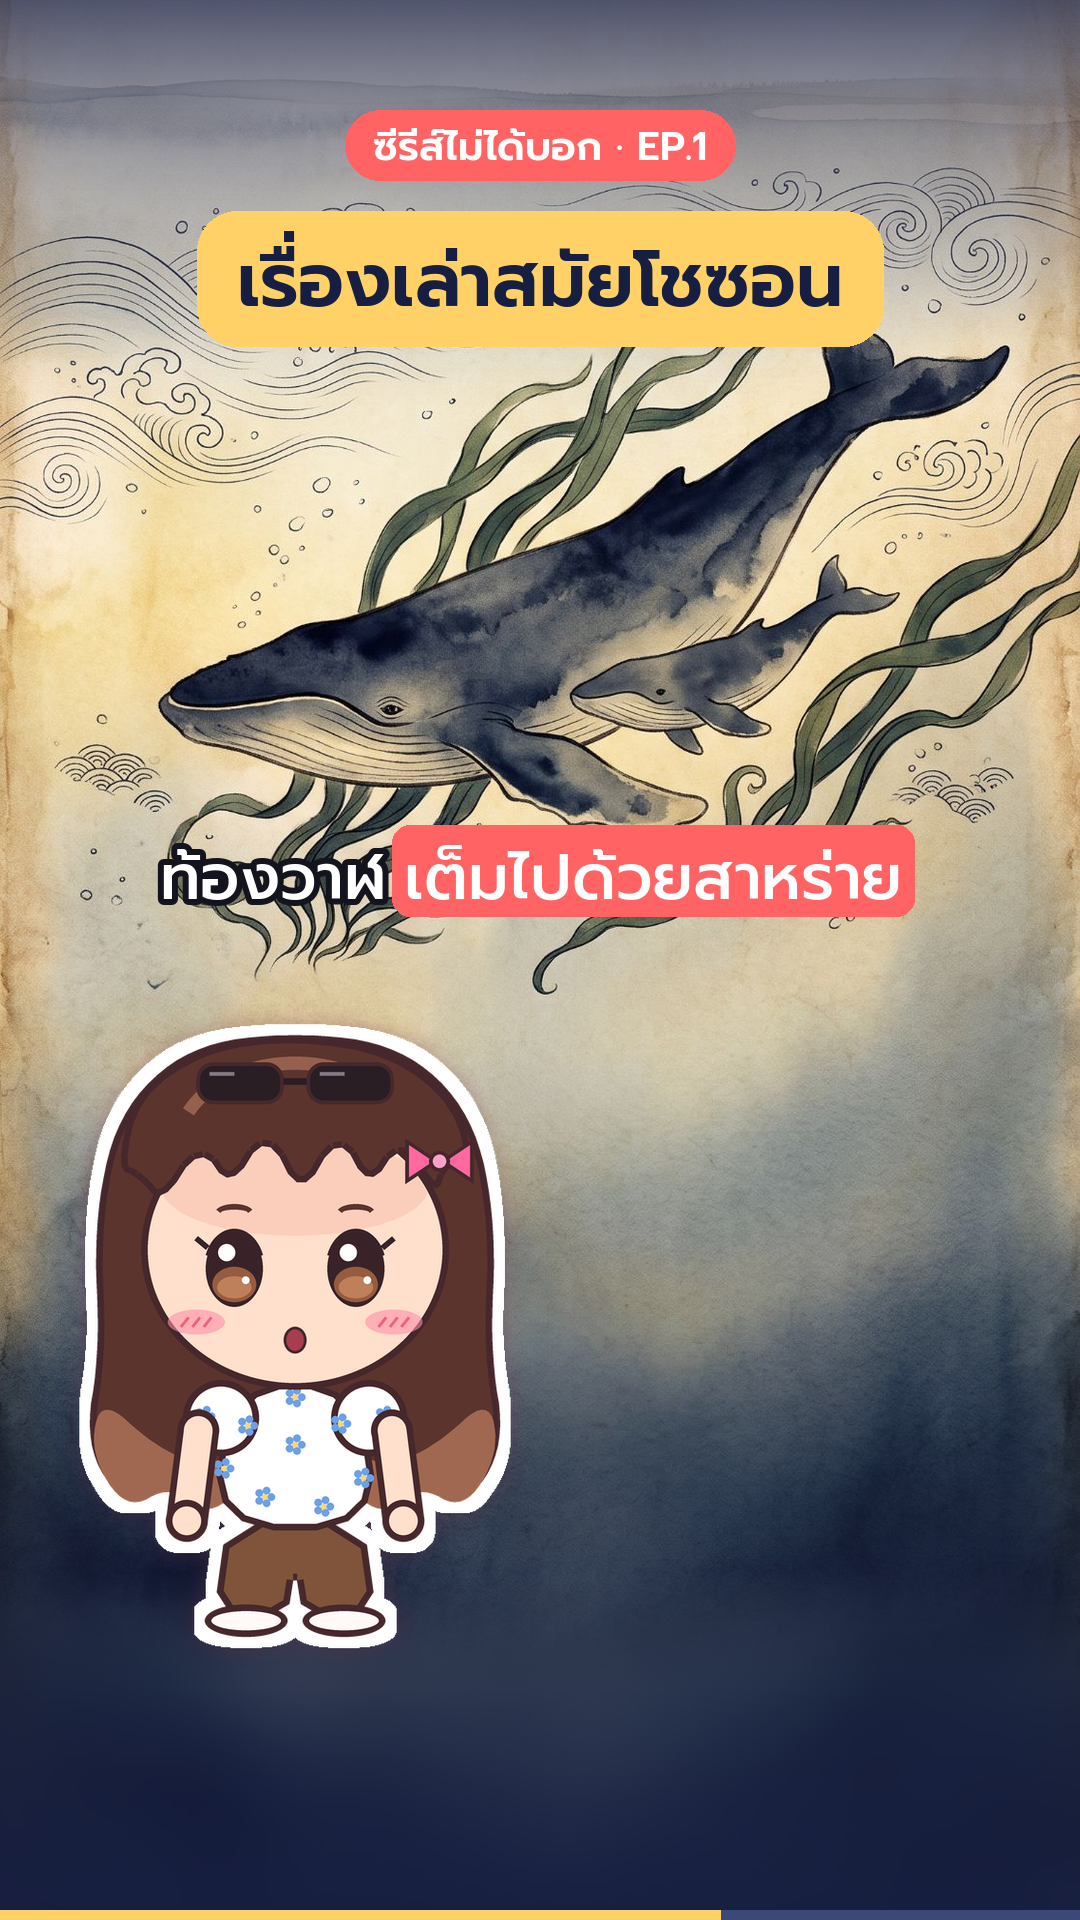
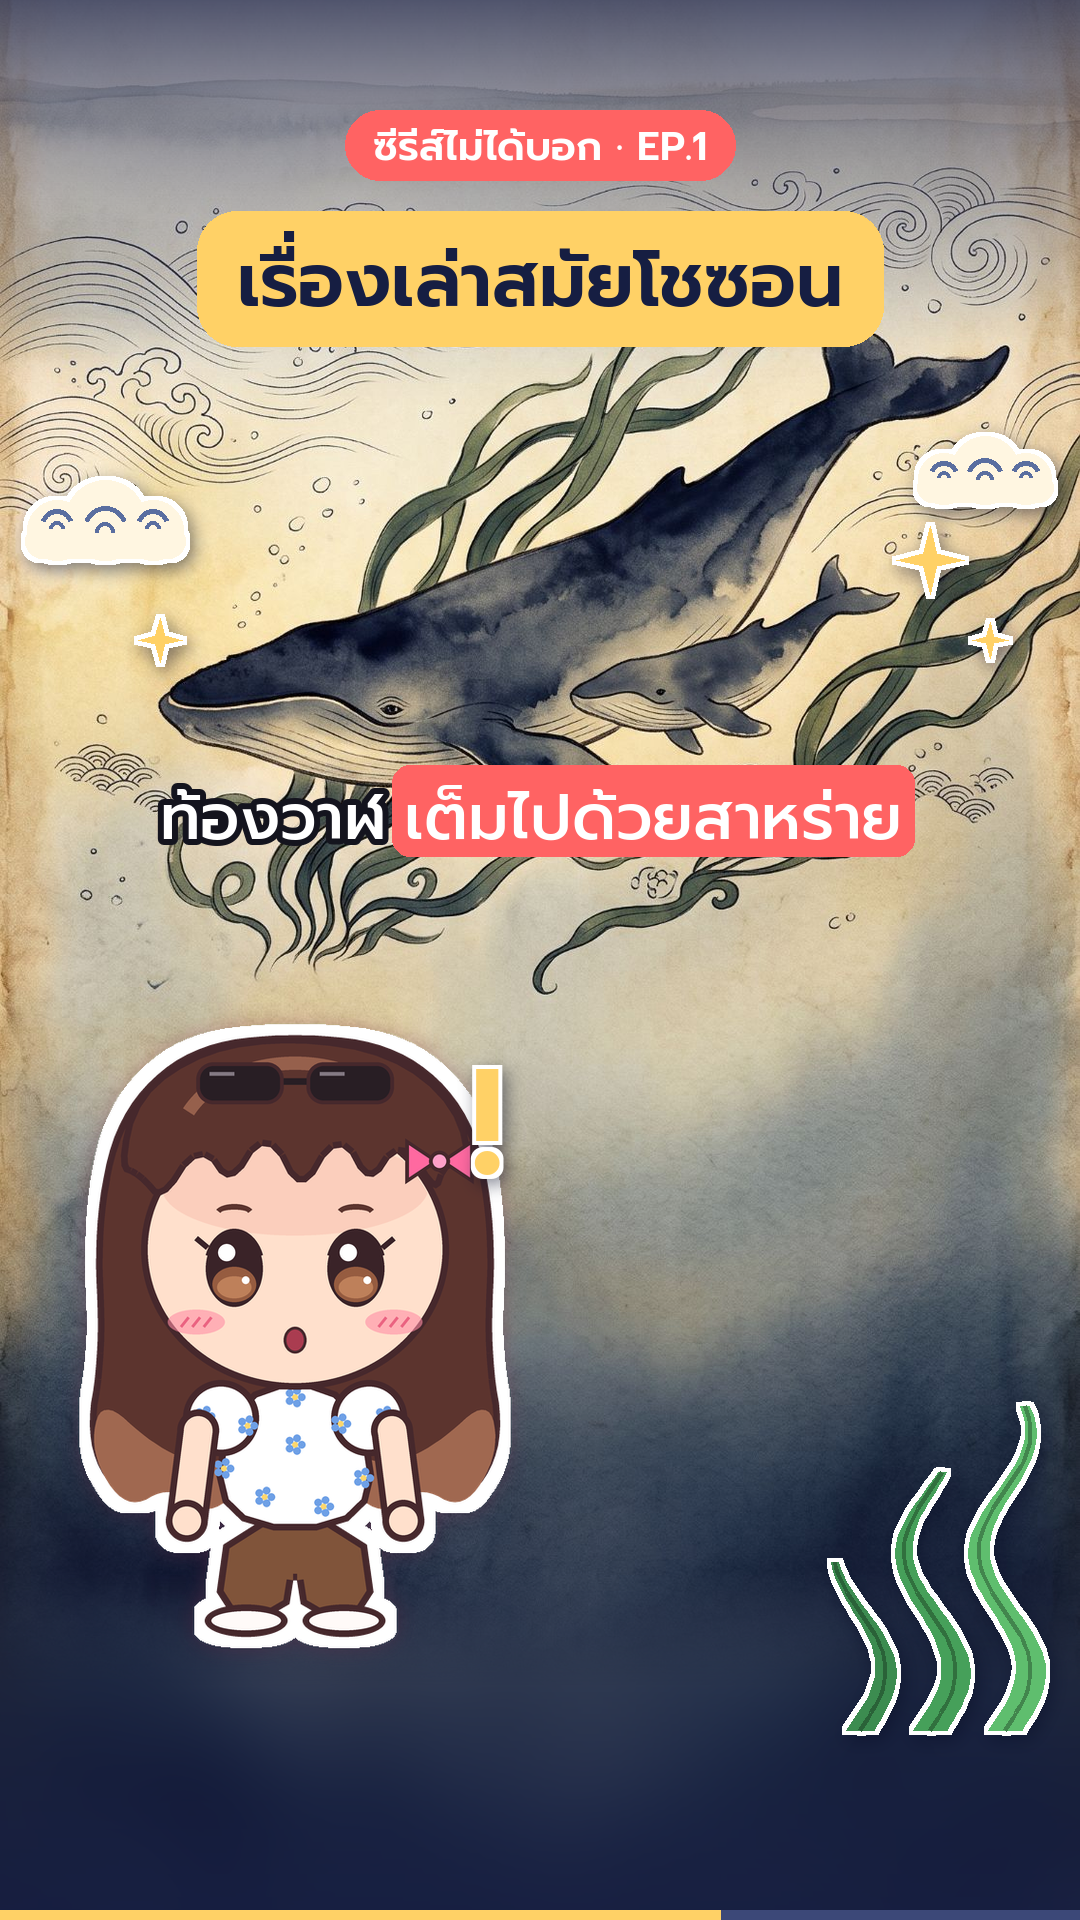
Mock frames: Korean doodle decorations (clouds, sparkles, seaweed, party hat)
Claude-Session: https://claude.ai/code/session_01RZMEmkS7RESx1oE558yDYc

diff --git a/office/weeks/2026-W47/make_mockframes.py b/office/weeks/2026-W47/make_mockframes.py
@@ -76,6 +76,63 @@ def subtitle(d, text, ybot):
             x += w + (18 if h else 0)
         y += lh
 
+
+import math
+CREAMD = (255, 246, 225)
+def _sticker(layer):
+    """white rim + soft shadow so doodles pop on photos"""
+    a = layer.split()[3]
+    rim = Image.new("RGBA", layer.size, (255, 255, 255, 0)); rim.putalpha(a.filter(ImageFilter.MaxFilter(9)))
+    sh = Image.new("RGBA", layer.size, (10, 15, 40, 0)); sh.putalpha(a.filter(ImageFilter.MaxFilter(9)).filter(ImageFilter.GaussianBlur(8)).point(lambda v: v * 0.5))
+    out = Image.new("RGBA", layer.size, (0, 0, 0, 0))
+    out.alpha_composite(sh, (4, 6)); out.alpha_composite(rim); out.alpha_composite(layer)
+    return out
+
+def cloud(d, x, y, r, col):
+    """Korean-style puffy cloud with swirl lines"""
+    for dx, dy, rr in [(-r*1.2, r*0.25, r*0.75), (0, 0, r), (r*1.2, r*0.25, r*0.75)]:
+        d.ellipse([x+dx-rr, y+dy-rr, x+dx+rr, y+dy+rr], fill=col)
+    d.rounded_rectangle([x-r*2, y+r*0.1, x+r*2, y+r*0.95], r*0.42, fill=col)
+    ln = (90, 110, 160)
+    for dx, rr in [(-r*1.2, r*0.42), (0, r*0.55), (r*1.2, r*0.42)]:
+        d.arc([x+dx-rr, y-rr*0.6, x+dx+rr, y+rr*1.4], 200, 340, fill=ln, width=5)
+        d.arc([x+dx-rr*0.45, y+rr*0.1, x+dx+rr*0.45, y+rr*1.0], 180, 360, fill=ln, width=4)
+
+def sparkle(d, x, y, r, col):
+    pts = []
+    for k in range(8):
+        ang = math.pi/4*k; rr = r if k % 2 == 0 else r*0.28
+        pts.append((x + rr*math.sin(ang), y - rr*math.cos(ang)))
+    d.polygon(pts, fill=col)
+
+def seaweed(d, x, y, h, col, w=34):
+    left, right, mid = [], [], []
+    for t in range(0, h, 6):
+        cx = x + 26*math.sin(t/38); ww = w*(1 - t/h*0.75)/2
+        left.append((cx-ww, y-t)); right.append((cx+ww, y-t)); mid.append((cx, y-t))
+    d.polygon(left + right[::-1], fill=col)
+    d.line(mid, fill=tuple(int(c*0.7) for c in col), width=4)
+
+def party_hat(d, cx, top):
+    d.polygon([(cx-62, top+150), (cx+62, top+150), (cx+8, top)], fill=(120, 190, 255))
+    for k in range(3):
+        yy = top + 45 + k*35
+        d.line([(cx-25-k*14, yy+6), (cx+25+k*12, yy-6)], fill="white", width=12)
+    d.ellipse([cx-10, top-26, cx+26, top+10], fill=YEL)
+
+def doodles(i):
+    L = Image.new("RGBA", (W, H), (0, 0, 0, 0)); d = ImageDraw.Draw(L)
+    cloud(d, 105, 520, 40, CREAMD); cloud(d, 985, 470, 34, CREAMD)
+    sparkle(d, 930, 560, 34, YEL); sparkle(d, 990, 640, 18, YEL); sparkle(d, 160, 640, 22, YEL)
+    seaweed(d, 930, 1730, 260, (70, 160, 90)); seaweed(d, 1005, 1730, 330, (95, 190, 110)); seaweed(d, 860, 1730, 170, (60, 140, 80), 28)
+    if i in (0, 4, 8):
+        party_hat(d, 340, 880)
+    if i in (0, 1):
+        d.text((470, 1000), "?" if i == 0 else "!?", font=font("Prompt-SemiBold.ttf", 150), fill=YEL)
+    if i in (5,):
+        d.text((470, 1010), "!", font=font("Prompt-SemiBold.ttf", 150), fill=YEL)
+    return _sticker(L)
+
 def frame(i, sc):
     bg, zoom, fy, pose, face, label, ko, kofirst, sub = sc
     if bg and not os.path.exists(f"{HERE}/story1-bg/{bg}.jpg"):
@@ -102,7 +159,8 @@ def frame(i, sc):
     # mascot bottom-left (keeps clear of TikTok buttons on the right and caption at bottom)
     m = draw_nagaji(pose=pose, face=face, height=780)
     img.alpha_composite(m, (10, H - 190 - m.height))
-    subtitle(d, sub, 930)
+    img.alpha_composite(doodles(i))
+    subtitle(d, sub, 870)
     d.rectangle([0, H-10, W, H], fill=(60, 72, 120)); d.rectangle([0, H-10, W*(i+1)/len(SCENES), H], fill=YEL)
     return img.convert("RGB")
 
